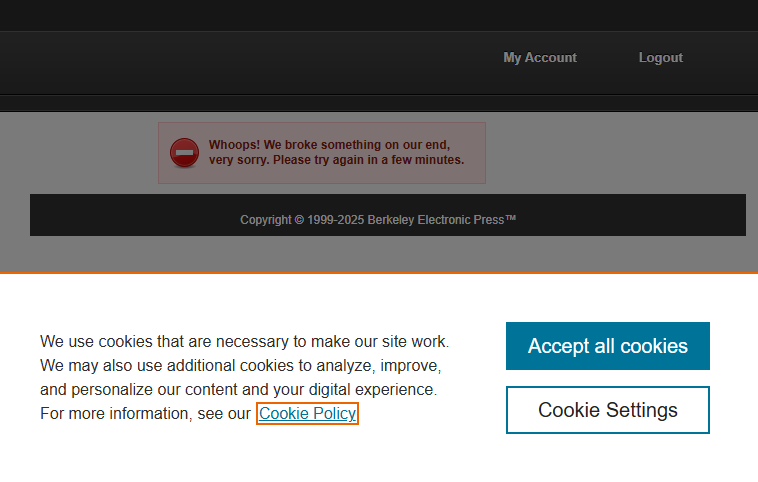
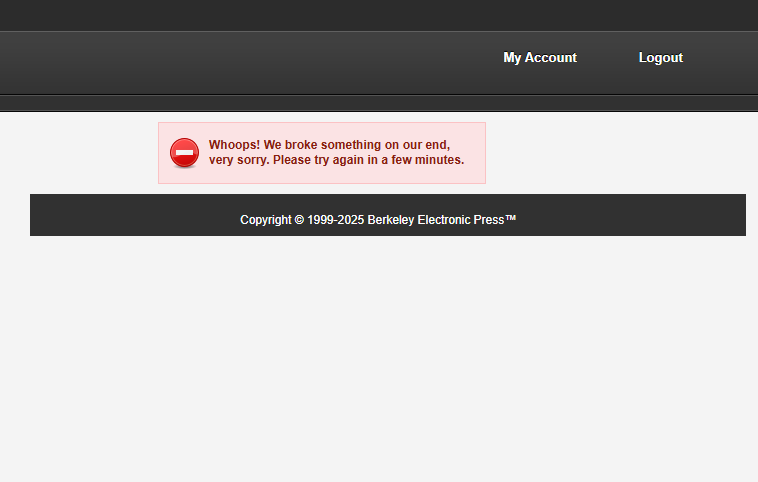
Cookies überbrückt
Trotzdem keine Inhalte

diff --git a/backend/scraper/scrape.js b/backend/scraper/scrape.js
@@ -10,7 +10,12 @@ async function scrapeAIS(query) {
 
   try {
     await page.goto(url, { waitUntil: 'networkidle2', timeout: 30000 });
-    
+
+    //Cookies
+    await page.waitForSelector('#onetrust-accept-btn-handler', { timeout: 5000 });
+    await page.click('#onetrust-accept-btn-handler');
+    await new Promise(resolve => setTimeout(resolve, 2000));
+
     await page.screenshot({ path: 'debug.png', fullPage: true });
 
     await page.waitForSelector('.artifact-description', { timeout: 10000 });
